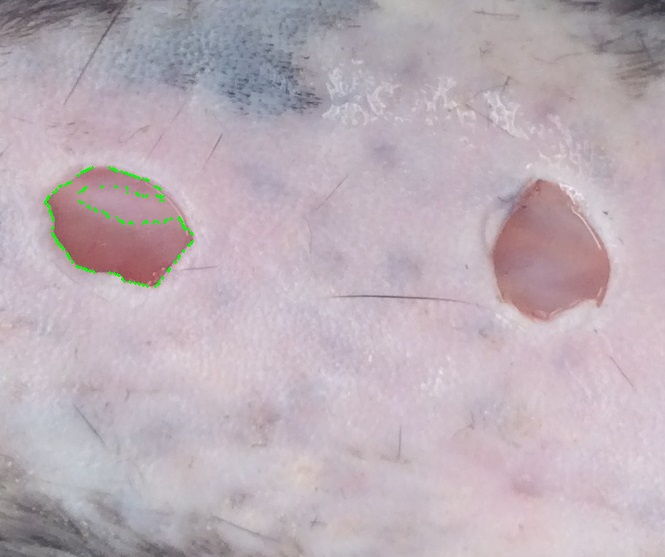
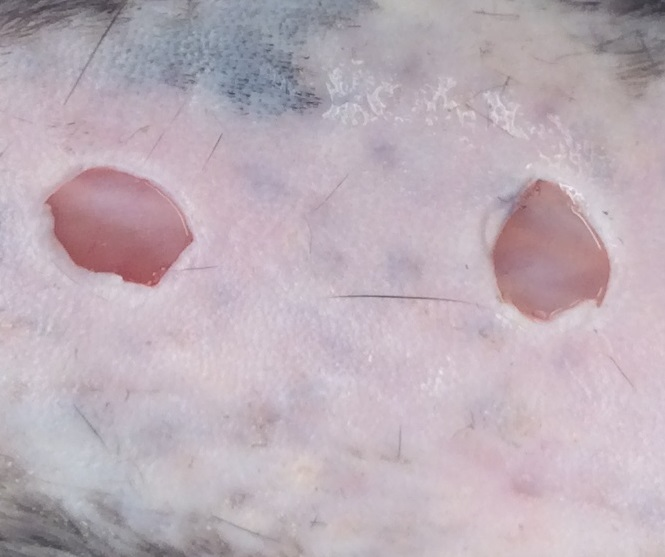
working local version analysis

diff --git a/frontend/src/views/Components/Sections/SectionBasics.js b/frontend/src/views/Components/Sections/SectionBasics.js
@@ -14,7 +14,7 @@ const useStyles = makeStyles(styles);
 export default function SectionBasics() {
   const [currentImage, setCurrentImage] = useState();
   const [currentImageFilename, setCurrentImageFilename] = useState();
-  const [analyzed, setAnalyzed] = useState(0);
+  const [analyzedUrl, setAnalyzedUrl] = useState(0);
   const [imageWidth, setImageWidth] = useState();
   const [testText, setTestText] = useState("default");
   const classes = useStyles();
@@ -30,7 +30,6 @@ export default function SectionBasics() {
   const onImageChange = event => {
     if (event.target.files && event.target.files[0]) {
       let img = event.target.files[0];
-      console.log(img)
       setCurrentImage(URL.createObjectURL(img));
       const form = new FormData();
       form.append('file', img);
@@ -45,7 +44,6 @@ export default function SectionBasics() {
           return response.json()
         })
         .then((data) => {
-          console.log("dataOnImageChange:, ", data)
           setCurrentImageFilename(data.filename)
         })
         .catch((error) => console.log(error));
@@ -54,14 +52,12 @@ export default function SectionBasics() {
 
   const analyzeImage = async (event) => {
     event.preventDefault();
-    console.log("curF: ", currentImageFilename)
     if (currentImageFilename && imageWidth) {
       const url = "/analyze/"
       const form = new FormData();
       form.append('filename', currentImageFilename);
       form.append('mode', "run")
       form.append("width", imageWidth)
-      console.log("cur: ", currentImageFilename)
       const options = {
         method: 'POST',
         body: form,
@@ -72,9 +68,9 @@ export default function SectionBasics() {
           return response.json()
         })
         .then((data) => {
-          console.log("in data2")
-          console.log(data)
-          setAnalyzed(data.analyzed)
+          console.log(`http://localhost:5000/uploads/${data.url}`)
+          setAnalyzedUrl(`http://localhost:5000/uploads/${data.url}`)
+          
         })
         .catch((error) => console.log(error));
     }
@@ -120,11 +116,10 @@ export default function SectionBasics() {
           </div>
           <div className="column">
             <h3>Image</h3>
-            {currentImage && !analyzed ? 
+            {currentImage && !analyzedUrl ? 
             <img src={currentImage} style={{width: "100%", flex: 1}} alt="" />
-            : null}
-            {analyzed ? 
-            <img src={"../../../../../../database/uploads/analyzed.png"} style={{width: "100%", flex: 1}} alt="" />
+            : analyzedUrl ? 
+            <img src={analyzedUrl} style={{width: "100%", flex: 1}} alt="" />
             : null}
           </div>
         </div>

diff --git a/wound_analysis/api/routes.py b/wound_analysis/api/routes.py
@@ -5,6 +5,7 @@ import os
 from werkzeug.utils import secure_filename
 import cv2
 import time
+import base64
 
 import pathlib
 import uuid
@@ -52,17 +53,19 @@ def run_recog():
     filename = flask.request.form.get("filename")
     mode = flask.request.form.get("mode")
     img_url = str(wound_analysis.app.config["UPLOAD_FOLDER"]/filename)
-    const_img_url = str(wound_analysis.app.config["UPLOAD_FOLDER"]/"analyzed.png")
+    #const_img_url = str(wound_analysis.app.config["UPLOAD_FOLDER"]/"analyzed.png")
+
     if mode == "run":
         width = float(flask.request.form.get("width"))
-        print(width)
         image = cv2.imread(img_url)
         data = optimized_masking_measurement(image, width)
-        cv2.imwrite(img_url, data["drawn_image"])
-        cv2.imwrite(const_img_url, data["drawn_image"])
-        print("img url ok: ", img_url)
-        print("img url ok: ", const_img_url)
-        return {"analyzed": True}
+        conv = "conv_" + filename
+        conv_img_url = str(wound_analysis.app.config["UPLOAD_FOLDER"]/conv)
+        cv2.imwrite(conv_img_url, data["drawn_image"])
+        #cv2.imwrite(const_img_url, data["drawn_image"])
+        print("/analyze/, img_url: ", conv)
+        #print("img url ok: ", const_img_url)
+        return {"url": conv}
 
     elif mode == "increase sat":
         width = float(flask.request.form.get("width"))
@@ -122,7 +125,7 @@ def upload():
 def testDataBase():
     return "tested"
 
-@wound_analysis.app.route('/database/uploads/<path:filename>', methods=['POST', 'GET'])
+@wound_analysis.app.route('/uploads/<path:filename>', methods=['POST', 'GET'])
 def download_file(filename):
     return flask.send_from_directory(wound_analysis.app.config['UPLOAD_FOLDER'],
                                      filename, as_attachment=True)

diff --git a/wound_analysis/api/area_optimization.py b/wound_analysis/api/area_optimization.py
@@ -62,8 +62,6 @@ def optimized_masking_measurement(image, real_width):
         else:
             break
 
-    print("test")
-    print(data)
     if data is not {}:
         return {"drawn_image": data["drawn_image"],
                 "areas": areas,
